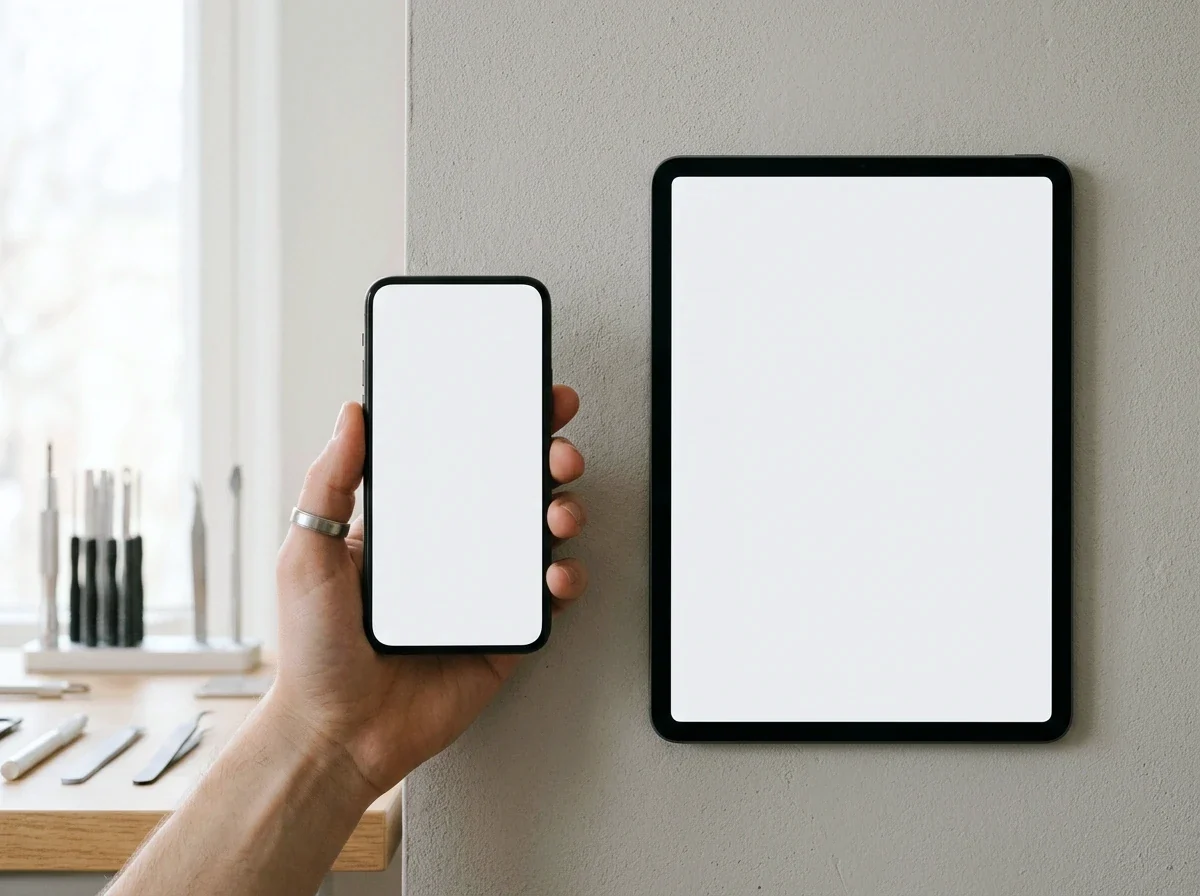
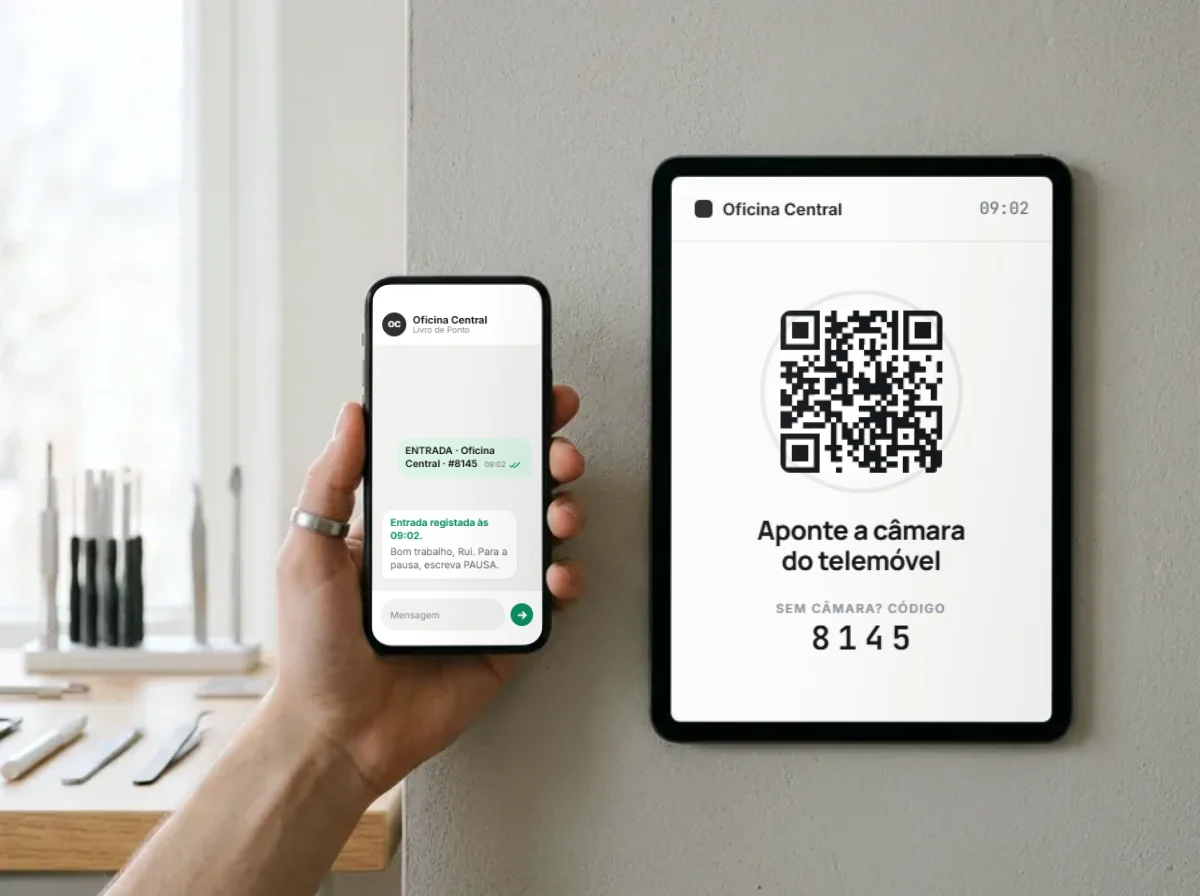
fix(ponto): 2.ª ronda da revisão — sem JS, pausa, movimento reduzido, tabela
- foto base com a interface já desenhada nos ecrãs (por língua): quem
  não tem JavaScript vê a demonstração completa; as camadas vivas cobrem-na
- QR do passo 1 em SVG estático, trocado pelo vivo quando o script corre
- botão para pausar/retomar a demonstração (WCAG 2.2.2)
- «reduzir movimento»: sem contagem nem anel (o QR não muda)
- a mensagem leva o código lido no início do ciclo até ao fim do ciclo
- tabela no telemóvel: rótulos em texto real dentro de cada célula
- âncoras antigas (#problema, #vantagens, #confianca, #para-quem)

diff --git a/src/i18n/es.ts b/src/i18n/es.ts
@@ -2450,6 +2450,8 @@ export const t: Copy = {
     },
   },
   pontoHero: {
+    demoPause: "Pausar la demostración",
+    demoPlay: "Reanudar la demostración",
     titleA: "Fichar por WhatsApp.",
     titleB: "Sin apps, sin reloj, sin papel.",
     proofs: ["QR que cambia cada 30 segundos", "Confirma la red de la tienda", "Registros guardados 5 años"],

diff --git a/src/i18n/pt.ts b/src/i18n/pt.ts
@@ -2476,6 +2476,8 @@ export const t = {
     },
   },
   pontoHero: {
+    demoPause: "Pausar a demonstração",
+    demoPlay: "Retomar a demonstração",
     titleA: "Picar o ponto pelo WhatsApp.",
     titleB: "Sem apps, sem relógio, sem papel.",
     proofs: ["QR que muda a cada 30 segundos", "Confirma a rede da loja", "Registos guardados 5 anos"],

diff --git a/src/i18n/en.ts b/src/i18n/en.ts
@@ -2445,6 +2445,8 @@ export const t: Copy = {
     },
   },
   pontoHero: {
+    demoPause: "Pause the demo",
+    demoPlay: "Resume the demo",
     titleA: "Clock in over WhatsApp.",
     titleB: "No apps, no time clock, no paper.",
     proofs: ["QR code that changes every 30 seconds", "Checks the shop's network", "Records kept for 5 years"],
